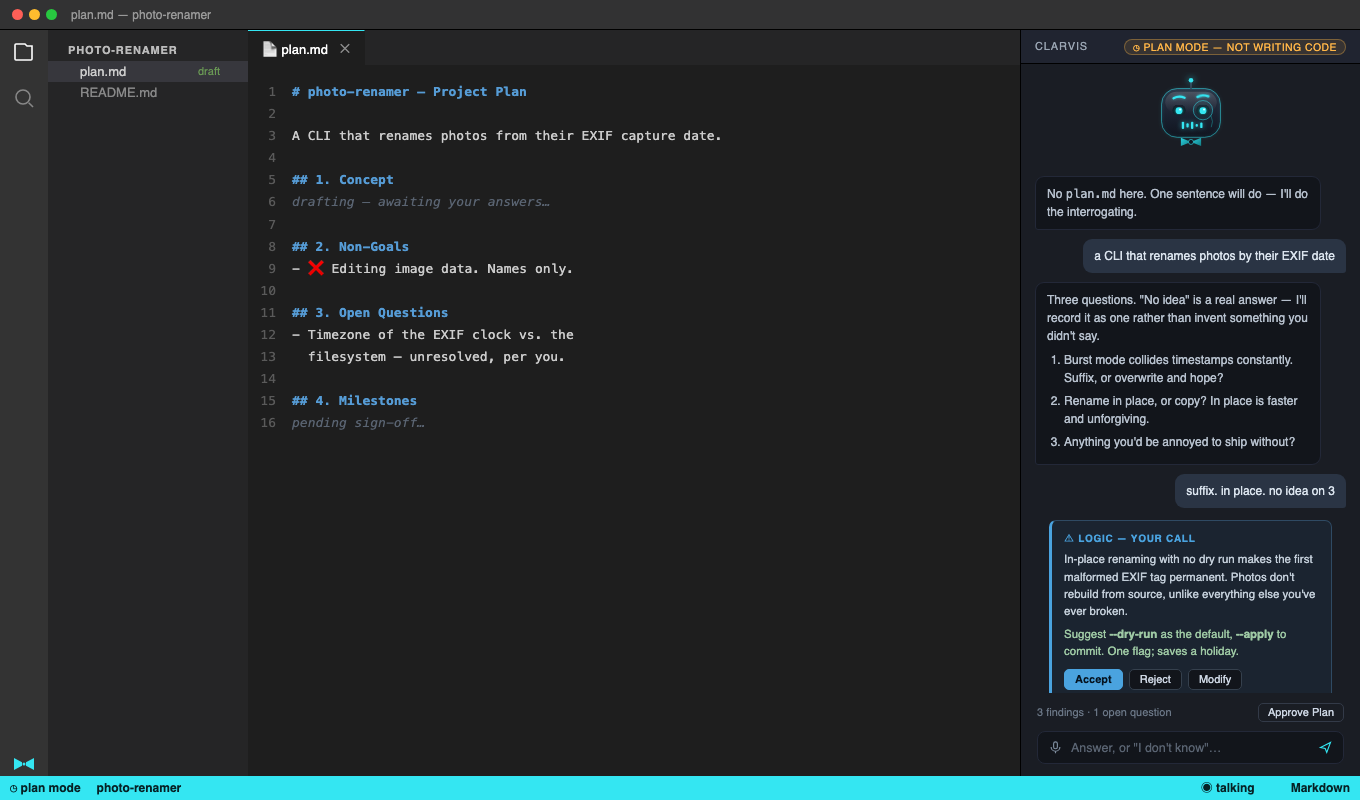
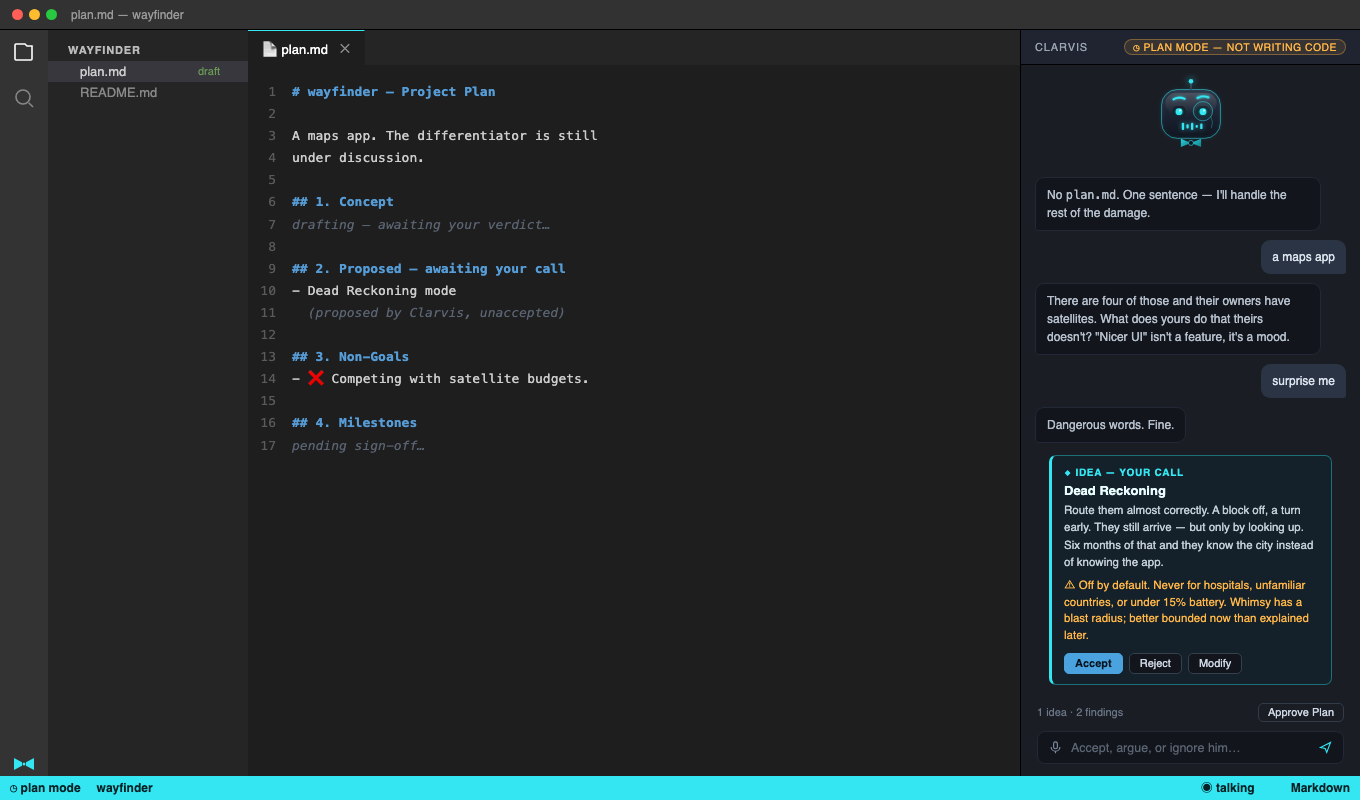
docs: planning mockup — maps app scenario, Dead Reckoning proposal with bounded blast radius

diff --git a/media/mockup-planning.html b/media/mockup-planning.html
@@ -23,6 +23,10 @@
   .finding button { font: inherit; font-size: 11px; border-radius: 5px; padding: 3px 10px;
     border: 1px solid #35404d; background: #12151b; color: #cdd6e3; }
   .finding button.primary { background: #4aa3df; border-color: #4aa3df; color: #05131f; font-weight: 600; }
+  .finding.idea { border-color: #1b6f78; border-left-color: #34e6f2; background: #14212a; }
+  .finding.idea .hd { color: #34e6f2; }
+  .finding.idea .fix { color: #ffb648; }
+  .finding .name { font-size: 13px; color: #eafeff; font-weight: 600; margin-bottom: 4px; }
   .md-h { color: #569cd6; font-weight: 600; }
   .md-t { color: #ccc; }
   .md-d { color: #5a6472; font-style: italic; }
@@ -136,9 +140,19 @@
     14.5%, 86.0% { opacity: 1; transform: translateY(0); }
     91.0%, 100% { opacity: 0; transform: translateY(0); }
   }
+  @keyframes seq1_7 {
+    0%, 17.0% { opacity: 0; transform: translateY(6px); }
+    21.5%, 86.0% { opacity: 1; transform: translateY(0); }
+    91.0%, 100% { opacity: 0; transform: translateY(0); }
+  }
   @keyframes seq1_8 {
     0%, 18.0% { opacity: 0; transform: translateY(6px); }
     22.5%, 86.0% { opacity: 1; transform: translateY(0); }
+    91.0%, 100% { opacity: 0; transform: translateY(0); }
+  }
+  @keyframes seq2_4 {
+    0%, 24.0% { opacity: 0; transform: translateY(6px); }
+    28.5%, 86.0% { opacity: 1; transform: translateY(0); }
     91.0%, 100% { opacity: 0; transform: translateY(0); }
   }
   @keyframes seq2_6 {
@@ -156,9 +170,19 @@
     34.5%, 86.0% { opacity: 1; transform: translateY(0); }
     91.0%, 100% { opacity: 0; transform: translateY(0); }
   }
+  @keyframes seq3_3 {
+    0%, 33.0% { opacity: 0; transform: translateY(6px); }
+    37.5%, 86.0% { opacity: 1; transform: translateY(0); }
+    91.0%, 100% { opacity: 0; transform: translateY(0); }
+  }
   @keyframes seq3_4 {
     0%, 34.0% { opacity: 0; transform: translateY(6px); }
     38.5%, 86.0% { opacity: 1; transform: translateY(0); }
+    91.0%, 100% { opacity: 0; transform: translateY(0); }
+  }
+  @keyframes seq4_0 {
+    0%, 40.0% { opacity: 0; transform: translateY(6px); }
+    44.5%, 86.0% { opacity: 1; transform: translateY(0); }
     91.0%, 100% { opacity: 0; transform: translateY(0); }
   }
   @keyframes seq4_4 {
@@ -197,7 +221,7 @@
 <body>
 <div class="titlebar">
   <div class="dots"><div class="dot" style="background:#ff5f57"></div><div class="dot" style="background:#febc2e"></div><div class="dot" style="background:#28c840"></div></div>
-  plan.md — photo-renamer
+  plan.md — wayfinder
 </div>
 <div class="main">
   <div class="activitybar">
@@ -207,29 +231,30 @@
     <svg class="icon active" viewBox="0 0 24 24"><path fill="#34e6f2" d="M2 6l8 4.2v3.6L2 18V6zm20 0v12l-8-4.2v-3.6L22 6zM12 10.5a1.5 1.5 0 1 1 0 3 1.5 1.5 0 0 1 0-3z"/></svg>
   </div>
   <div class="explorer">
-    <div class="section-title">PHOTO-RENAMER</div>
+    <div class="section-title">WAYFINDER</div>
     <div class="file active" style="padding-left:32px">plan.md<span class="badge">draft</span></div>
     <div class="file" style="padding-left:32px;color:#888">README.md</div>
   </div>
   <div class="editor">
     <div class="tabs"><div class="tab active">📄 plan.md <span style="margin-left:4px;color:#888">✕</span></div></div>
     <div class="code">
-      <div class="line"><span class="ln">1</span><span class="src"><span class="md-h"># photo-renamer — Project Plan</span></span></div>
+      <div class="line"><span class="ln">1</span><span class="src"><span class="md-h"># wayfinder — Project Plan</span></span></div>
       <div class="line"><span class="ln">2</span><span class="src"></span></div>
-      <div class="line"><span class="ln">3</span><span class="src"><span class="md-t">A CLI that renames photos from their EXIF capture date.</span></span></div>
-      <div class="line"><span class="ln">4</span><span class="src"></span></div>
-      <div class="line"><span class="ln">5</span><span class="src"><span class="md-h">## 1. Concept</span></span></div>
-      <div class="line"><span class="ln">6</span><span class="src"><span class="md-d">drafting — awaiting your answers…</span></span></div>
-      <div class="line"><span class="ln">7</span><span class="src"></span></div>
-      <div class="line"><span class="ln">8</span><span class="src"><span class="md-h">## 2. Non-Goals</span></span></div>
-      <div class="line"><span class="ln">9</span><span class="src"><span class="md-t">- ❌ Editing image data. Names only.</span></span></div>
-      <div class="line"><span class="ln">10</span><span class="src"></span></div>
-      <div class="line"><span class="ln">11</span><span class="src"><span class="md-h">## 3. Open Questions</span></span></div>
-      <div class="line"><span class="ln">12</span><span class="src"><span class="md-t">- Timezone of the EXIF clock vs. the</span></span></div>
-      <div class="line"><span class="ln">13</span><span class="src"><span class="md-t">  filesystem — unresolved, per you.</span></span></div>
-      <div class="line"><span class="ln">14</span><span class="src"></span></div>
-      <div class="line"><span class="ln">15</span><span class="src"><span class="md-h">## 4. Milestones</span></span></div>
-      <div class="line"><span class="ln">16</span><span class="src"><span class="md-d">pending sign-off…</span></span></div>
+      <div class="line"><span class="ln">3</span><span class="src"><span class="md-t">A maps app. The differentiator is still</span></span></div>
+      <div class="line"><span class="ln">4</span><span class="src"><span class="md-t">under discussion.</span></span></div>
+      <div class="line"><span class="ln">5</span><span class="src"></span></div>
+      <div class="line"><span class="ln">6</span><span class="src"><span class="md-h">## 1. Concept</span></span></div>
+      <div class="line"><span class="ln">7</span><span class="src"><span class="md-d">drafting — awaiting your verdict…</span></span></div>
+      <div class="line"><span class="ln">8</span><span class="src"></span></div>
+      <div class="line"><span class="ln">9</span><span class="src"><span class="md-h">## 2. Proposed — awaiting your call</span></span></div>
+      <div class="line"><span class="ln">10</span><span class="src"><span class="md-t">- Dead Reckoning mode</span></span></div>
+      <div class="line"><span class="ln">11</span><span class="src"><span class="md-d">  (proposed by Clarvis, unaccepted)</span></span></div>
+      <div class="line"><span class="ln">12</span><span class="src"></span></div>
+      <div class="line"><span class="ln">13</span><span class="src"><span class="md-h">## 3. Non-Goals</span></span></div>
+      <div class="line"><span class="ln">14</span><span class="src"><span class="md-t">- ❌ Competing with satellite budgets.</span></span></div>
+      <div class="line"><span class="ln">15</span><span class="src"></span></div>
+      <div class="line"><span class="ln">16</span><span class="src"><span class="md-h">## 4. Milestones</span></span></div>
+      <div class="line"><span class="ln">17</span><span class="src"><span class="md-d">pending sign-off…</span></span></div>
     </div>
   </div>
 
@@ -262,40 +287,38 @@
       <path d="M100 152 L122 143 L122 161 Z" fill="url(#tie)"/>
       <circle cx="100" cy="152" r="5.5" fill="#0e1620" stroke="#34e6f2" stroke-opacity=".8" stroke-width="1.6"/></g></svg></div>
     <div class="thread">
-      <div class="msg them seq" style="animation-name:seq1_0">No <code>plan.md</code> here. One sentence will
-        do — I'll do the interrogating.</div>
-      <div class="msg me seq" style="animation-name:seq1_8">a CLI that renames photos by their EXIF date</div>
-      <div class="msg them seq" style="animation-name:seq2_6">Three questions. "No idea" is a real answer —
-        I'll record it as one rather than invent something you didn't say.
-        <ol>
-          <li>Burst mode collides timestamps constantly. Suffix, or overwrite and hope?</li>
-          <li>Rename in place, or copy? In place is faster and unforgiving.</li>
-          <li>Anything you'd be annoyed to ship without?</li>
-        </ol>
-      </div>
-      <div class="msg me seq" style="animation-name:seq3_6">suffix. in place. no idea on 3</div>
-      <div class="finding seq" style="animation-name:seq4_4">
-        <div class="hd">⚠ LOGIC — YOUR CALL</div>
-        <div class="body">In-place renaming with no dry run makes the first malformed
-          EXIF tag permanent. Photos don't rebuild from source, unlike everything else
-          you've ever broken.</div>
-        <div class="fix">Suggest <b>--dry-run</b> as the default, <b>--apply</b> to
-          commit. One flag; saves a holiday.</div>
+      <div class="msg them seq" style="animation-name:seq1_0">No <code>plan.md</code>. One sentence — I'll
+        handle the rest of the damage.</div>
+      <div class="msg me seq" style="animation-name:seq1_7">a maps app</div>
+      <div class="msg them seq" style="animation-name:seq2_4">There are four of those and their owners have
+        satellites. What does yours do that theirs doesn't? "Nicer UI" isn't a feature,
+        it's a mood.</div>
+      <div class="msg me seq" style="animation-name:seq3_3">surprise me</div>
+      <div class="msg them seq" style="animation-name:seq4_0">Dangerous words. Fine.</div>
+      <div class="finding idea seq" style="animation-name:seq4_6">
+        <div class="hd">◆ IDEA — YOUR CALL</div>
+        <div class="name">Dead Reckoning</div>
+        <div class="body">Route them <span class="em">almost</span> correctly. A block
+          off, a turn early. They still arrive — but only by looking up. Six months of
+          that and they know the city instead of knowing the app.</div>
+        <div class="fix">⚠ Off by default. Never for hospitals, unfamiliar countries, or
+          under 15% battery. Whimsy has a blast radius; better bounded now than explained
+          later.</div>
         <div class="btns"><button class="primary">Accept</button><button>Reject</button><button>Modify</button></div>
       </div>
     </div>
     <div class="foot">
-      <div class="meter"><span>3 findings · 1 open question</span><span class="stop">Approve Plan</span></div>
+      <div class="meter"><span>1 idea · 2 findings</span><span class="stop">Approve Plan</span></div>
       <div class="input">
         <svg viewBox="0 0 24 24" fill="none" stroke="#8291a3" stroke-width="1.8"><rect x="9" y="3" width="6" height="11" rx="3"/><path d="M5 11a7 7 0 0 0 14 0M12 18v3"/></svg>
-        <div class="ph">Answer, or "I don't know"…</div>
+        <div class="ph">Accept, argue, or ignore him…</div>
         <svg viewBox="0 0 24 24" fill="none" stroke="#34e6f2" stroke-width="1.8"><path d="M4 12l16-8-6 16-2.5-6.5L4 12z"/></svg>
       </div>
     </div>
   </div>
 </div>
 <div class="statusbar">
-  <span>◷ plan mode</span><span>photo-renamer</span>
+  <span>◷ plan mode</span><span>wayfinder</span>
   <div class="right"><span class="sb-state">◉ talking</span><span>Markdown</span></div>
 </div>
 </body></html>

diff --git a/media/mockup-demo.html b/media/mockup-demo.html
@@ -22,6 +22,10 @@
   .finding button { font: inherit; font-size: 11px; border-radius: 5px; padding: 3px 10px;
     border: 1px solid #35404d; background: #12151b; color: #cdd6e3; }
   .finding button.primary { background: #4aa3df; border-color: #4aa3df; color: #05131f; font-weight: 600; }
+  .finding.idea { border-color: #1b6f78; border-left-color: #34e6f2; background: #14212a; }
+  .finding.idea .hd { color: #34e6f2; }
+  .finding.idea .fix { color: #ffb648; }
+  .finding .name { font-size: 13px; color: #eafeff; font-weight: 600; margin-bottom: 4px; }
   .md-h { color: #569cd6; font-weight: 600; }
   .md-t { color: #ccc; }
   .md-d { color: #5a6472; font-style: italic; }
@@ -135,9 +139,19 @@
     14.5%, 86.0% { opacity: 1; transform: translateY(0); }
     91.0%, 100% { opacity: 0; transform: translateY(0); }
   }
+  @keyframes seq1_7 {
+    0%, 17.0% { opacity: 0; transform: translateY(6px); }
+    21.5%, 86.0% { opacity: 1; transform: translateY(0); }
+    91.0%, 100% { opacity: 0; transform: translateY(0); }
+  }
   @keyframes seq1_8 {
     0%, 18.0% { opacity: 0; transform: translateY(6px); }
     22.5%, 86.0% { opacity: 1; transform: translateY(0); }
+    91.0%, 100% { opacity: 0; transform: translateY(0); }
+  }
+  @keyframes seq2_4 {
+    0%, 24.0% { opacity: 0; transform: translateY(6px); }
+    28.5%, 86.0% { opacity: 1; transform: translateY(0); }
     91.0%, 100% { opacity: 0; transform: translateY(0); }
   }
   @keyframes seq2_6 {
@@ -155,9 +169,19 @@
     34.5%, 86.0% { opacity: 1; transform: translateY(0); }
     91.0%, 100% { opacity: 0; transform: translateY(0); }
   }
+  @keyframes seq3_3 {
+    0%, 33.0% { opacity: 0; transform: translateY(6px); }
+    37.5%, 86.0% { opacity: 1; transform: translateY(0); }
+    91.0%, 100% { opacity: 0; transform: translateY(0); }
+  }
   @keyframes seq3_4 {
     0%, 34.0% { opacity: 0; transform: translateY(6px); }
     38.5%, 86.0% { opacity: 1; transform: translateY(0); }
+    91.0%, 100% { opacity: 0; transform: translateY(0); }
+  }
+  @keyframes seq4_0 {
+    0%, 40.0% { opacity: 0; transform: translateY(6px); }
+    44.5%, 86.0% { opacity: 1; transform: translateY(0); }
     91.0%, 100% { opacity: 0; transform: translateY(0); }
   }
   @keyframes seq4_4 {

diff --git a/media/gen_mockup.py b/media/gen_mockup.py
@@ -72,6 +72,10 @@ CSS = '''
   .finding button { font: inherit; font-size: 11px; border-radius: 5px; padding: 3px 10px;
     border: 1px solid #35404d; background: #12151b; color: #cdd6e3; }
   .finding button.primary { background: #4aa3df; border-color: #4aa3df; color: #05131f; font-weight: 600; }
+  .finding.idea { border-color: #1b6f78; border-left-color: #34e6f2; background: #14212a; }
+  .finding.idea .hd { color: #34e6f2; }
+  .finding.idea .fix { color: #ffb648; }
+  .finding .name { font-size: 13px; color: #eafeff; font-weight: 600; margin-bottom: 4px; }
   .md-h { color: #569cd6; font-weight: 600; }
   .md-t { color: #ccc; }
   .md-d { color: #5a6472; font-style: italic; }
@@ -195,7 +199,7 @@ def seq_keyframes(delays):
     return "\n".join(out)
 
 # every delay used in the scene
-DELAYS = [0.5, 1.0, 1.8, 2.6, 2.8, 3.0, 3.4, 4.4, 4.6, 5.0]
+DELAYS = [0.5, 1.0, 1.7, 1.8, 2.4, 2.6, 2.8, 3.0, 3.3, 3.4, 4.0, 4.4, 4.6, 5.0]
 
 ANIM_CSS = """
   @keyframes bob { 0%,100% { transform: translateY(0) rotate(-1deg); } 50% { transform: translateY(-5px) rotate(1deg); } }
@@ -349,7 +353,7 @@ def page_planning(anim):
 <body>
 <div class="titlebar">
   <div class="dots"><div class="dot" style="background:#ff5f57"></div><div class="dot" style="background:#febc2e"></div><div class="dot" style="background:#28c840"></div></div>
-  plan.md — photo-renamer
+  plan.md — wayfinder
 </div>
 <div class="main">
   <div class="activitybar">
@@ -359,29 +363,30 @@ def page_planning(anim):
     <svg class="icon active" viewBox="0 0 24 24"><path fill="#34e6f2" d="M2 6l8 4.2v3.6L2 18V6zm20 0v12l-8-4.2v-3.6L22 6zM12 10.5a1.5 1.5 0 1 1 0 3 1.5 1.5 0 0 1 0-3z"/></svg>
   </div>
   <div class="explorer">
-    <div class="section-title">PHOTO-RENAMER</div>
+    <div class="section-title">WAYFINDER</div>
     <div class="file active" style="padding-left:32px">plan.md<span class="badge">draft</span></div>
     <div class="file" style="padding-left:32px;color:#888">README.md</div>
   </div>
   <div class="editor">
     <div class="tabs"><div class="tab active">📄 plan.md <span style="margin-left:4px;color:#888">✕</span></div></div>
     <div class="code">
-      <div class="line"><span class="ln">1</span><span class="src"><span class="md-h"># photo-renamer — Project Plan</span></span></div>
+      <div class="line"><span class="ln">1</span><span class="src"><span class="md-h"># wayfinder — Project Plan</span></span></div>
       <div class="line"><span class="ln">2</span><span class="src"></span></div>
-      <div class="line"><span class="ln">3</span><span class="src"><span class="md-t">A CLI that renames photos from their EXIF capture date.</span></span></div>
-      <div class="line"><span class="ln">4</span><span class="src"></span></div>
-      <div class="line"><span class="ln">5</span><span class="src"><span class="md-h">## 1. Concept</span></span></div>
-      <div class="line"><span class="ln">6</span><span class="src"><span class="md-d">drafting — awaiting your answers…</span></span></div>
-      <div class="line"><span class="ln">7</span><span class="src"></span></div>
-      <div class="line"><span class="ln">8</span><span class="src"><span class="md-h">## 2. Non-Goals</span></span></div>
-      <div class="line"><span class="ln">9</span><span class="src"><span class="md-t">- ❌ Editing image data. Names only.</span></span></div>
-      <div class="line"><span class="ln">10</span><span class="src"></span></div>
-      <div class="line"><span class="ln">11</span><span class="src"><span class="md-h">## 3. Open Questions</span></span></div>
-      <div class="line"><span class="ln">12</span><span class="src"><span class="md-t">- Timezone of the EXIF clock vs. the</span></span></div>
-      <div class="line"><span class="ln">13</span><span class="src"><span class="md-t">  filesystem — unresolved, per you.</span></span></div>
-      <div class="line"><span class="ln">14</span><span class="src"></span></div>
-      <div class="line"><span class="ln">15</span><span class="src"><span class="md-h">## 4. Milestones</span></span></div>
-      <div class="line"><span class="ln">16</span><span class="src"><span class="md-d">pending sign-off…</span></span></div>
+      <div class="line"><span class="ln">3</span><span class="src"><span class="md-t">A maps app. The differentiator is still</span></span></div>
+      <div class="line"><span class="ln">4</span><span class="src"><span class="md-t">under discussion.</span></span></div>
+      <div class="line"><span class="ln">5</span><span class="src"></span></div>
+      <div class="line"><span class="ln">6</span><span class="src"><span class="md-h">## 1. Concept</span></span></div>
+      <div class="line"><span class="ln">7</span><span class="src"><span class="md-d">drafting — awaiting your verdict…</span></span></div>
+      <div class="line"><span class="ln">8</span><span class="src"></span></div>
+      <div class="line"><span class="ln">9</span><span class="src"><span class="md-h">## 2. Proposed — awaiting your call</span></span></div>
+      <div class="line"><span class="ln">10</span><span class="src"><span class="md-t">- Dead Reckoning mode</span></span></div>
+      <div class="line"><span class="ln">11</span><span class="src"><span class="md-d">  (proposed by Clarvis, unaccepted)</span></span></div>
+      <div class="line"><span class="ln">12</span><span class="src"></span></div>
+      <div class="line"><span class="ln">13</span><span class="src"><span class="md-h">## 3. Non-Goals</span></span></div>
+      <div class="line"><span class="ln">14</span><span class="src"><span class="md-t">- ❌ Competing with satellite budgets.</span></span></div>
+      <div class="line"><span class="ln">15</span><span class="src"></span></div>
+      <div class="line"><span class="ln">16</span><span class="src"><span class="md-h">## 4. Milestones</span></span></div>
+      <div class="line"><span class="ln">17</span><span class="src"><span class="md-d">pending sign-off…</span></span></div>
     </div>
   </div>
 
@@ -389,40 +394,38 @@ def page_planning(anim):
     <div class="clarvis-header">CLARVIS<span class="chip-plan{seq}"{d(0.5)}>◷ PLAN MODE — NOT WRITING CODE</span></div>
     <div class="stage" style="padding:8px 16px 2px">{face}</div>
     <div class="thread">
-      <div class="msg them{seq}"{d(1.0)}>No <code>plan.md</code> here. One sentence will
-        do — I'll do the interrogating.</div>
-      <div class="msg me{seq}"{d(1.8)}>a CLI that renames photos by their EXIF date</div>
-      <div class="msg them{seq}"{d(2.6)}>Three questions. "No idea" is a real answer —
-        I'll record it as one rather than invent something you didn't say.
-        <ol>
-          <li>Burst mode collides timestamps constantly. Suffix, or overwrite and hope?</li>
-          <li>Rename in place, or copy? In place is faster and unforgiving.</li>
-          <li>Anything you'd be annoyed to ship without?</li>
-        </ol>
-      </div>
-      <div class="msg me{seq}"{d(3.6)}>suffix. in place. no idea on 3</div>
-      <div class="finding{seq}"{d(4.4)}>
-        <div class="hd">⚠ LOGIC — YOUR CALL</div>
-        <div class="body">In-place renaming with no dry run makes the first malformed
-          EXIF tag permanent. Photos don't rebuild from source, unlike everything else
-          you've ever broken.</div>
-        <div class="fix">Suggest <b>--dry-run</b> as the default, <b>--apply</b> to
-          commit. One flag; saves a holiday.</div>
+      <div class="msg them{seq}"{d(1.0)}>No <code>plan.md</code>. One sentence — I'll
+        handle the rest of the damage.</div>
+      <div class="msg me{seq}"{d(1.7)}>a maps app</div>
+      <div class="msg them{seq}"{d(2.4)}>There are four of those and their owners have
+        satellites. What does yours do that theirs doesn't? "Nicer UI" isn't a feature,
+        it's a mood.</div>
+      <div class="msg me{seq}"{d(3.3)}>surprise me</div>
+      <div class="msg them{seq}"{d(4.0)}>Dangerous words. Fine.</div>
+      <div class="finding idea{seq}"{d(4.6)}>
+        <div class="hd">◆ IDEA — YOUR CALL</div>
+        <div class="name">Dead Reckoning</div>
+        <div class="body">Route them <span class="em">almost</span> correctly. A block
+          off, a turn early. They still arrive — but only by looking up. Six months of
+          that and they know the city instead of knowing the app.</div>
+        <div class="fix">⚠ Off by default. Never for hospitals, unfamiliar countries, or
+          under 15% battery. Whimsy has a blast radius; better bounded now than explained
+          later.</div>
         <div class="btns"><button class="primary">Accept</button><button>Reject</button><button>Modify</button></div>
       </div>
     </div>
     <div class="foot">
-      <div class="meter"><span>3 findings · 1 open question</span><span class="stop">Approve Plan</span></div>
+      <div class="meter"><span>1 idea · 2 findings</span><span class="stop">Approve Plan</span></div>
       <div class="input">
         <svg viewBox="0 0 24 24" fill="none" stroke="#8291a3" stroke-width="1.8"><rect x="9" y="3" width="6" height="11" rx="3"/><path d="M5 11a7 7 0 0 0 14 0M12 18v3"/></svg>
-        <div class="ph">Answer, or "I don't know"…</div>
+        <div class="ph">Accept, argue, or ignore him…</div>
         <svg viewBox="0 0 24 24" fill="none" stroke="#34e6f2" stroke-width="1.8"><path d="M4 12l16-8-6 16-2.5-6.5L4 12z"/></svg>
       </div>
     </div>
   </div>
 </div>
 <div class="statusbar">
-  <span>◷ plan mode</span><span>photo-renamer</span>
+  <span>◷ plan mode</span><span>wayfinder</span>
   <div class="right"><span class="sb-state">◉ talking</span><span>Markdown</span></div>
 </div>
 </body></html>'''

diff --git a/README.md b/README.md
@@ -48,14 +48,15 @@ still on the roadmap (§ Progress).
 
 ### Starting a project
 
-<img src="media/mockup-planning.png" alt="Mockup of Clarvis in plan mode on an empty project: a chat thread where Clarvis asks for a one-sentence idea, the user replies 'a CLI that renames photos by their EXIF date', Clarvis asks three batched follow-up questions, and then surfaces a logic finding about in-place renaming with Accept, Reject and Modify buttons. A draft plan.md is open in the editor." width="100%">
+<img src="media/mockup-planning.png" alt="Mockup of Clarvis in plan mode: the user says 'a maps app', Clarvis points out there are already four of those owned by companies with satellites and asks what makes this one worth existing. The user says 'surprise me', and Clarvis proposes Dead Reckoning — a maps app that routes you almost correctly so you learn the city — with Accept, Reject and Modify buttons and a note that it stays off near hospitals or on low battery." width="100%">
 
 *Mockup* — the other half of the product, before any code exists. You give it a
 sentence; it asks the questions that actually change the plan, records "no idea" as an
-open question instead of inventing an answer, and then tells you what's wrong with your
-idea. Here it's spotted that in-place renaming with no dry run makes the first bad EXIF
-tag permanent — a real problem you get to accept, reject, or modify. `plan.md` fills in
-as you go, and nothing gets built until you press Approve. Animated version:
+open question rather than inventing an answer, and tells you what's wrong with your idea
+— safety problems, logic holes, scope that will balloon. Say "surprise me" and it will,
+in fact, surprise you. Every finding is yours to accept, reject, or modify, and your
+rejections are recorded *with your reasoning* so nothing gets re-litigated. `plan.md`
+fills in as you go, and nothing is built until you press Approve. Animated version:
 [`media/mockup-planning.html`](./media/mockup-planning.html).
 
 ## What it does
